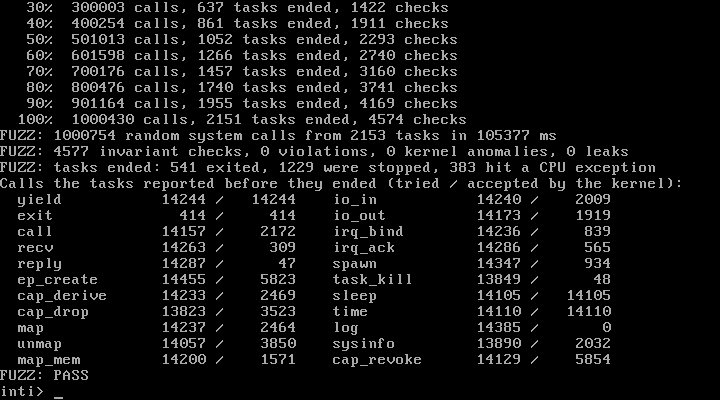
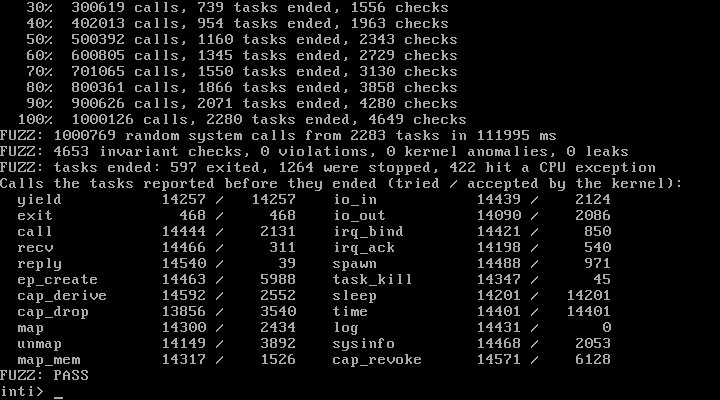
Refresh Inti landing page: v0.2.1 figures and screenshots

diff --git a/p/inti/index.html b/p/inti/index.html
@@ -627,12 +627,12 @@ html.dna.dna.dna { --fd: "Sometype Mono", var(--fd-fallback); --fdw: 700; --fd-f
   <section class="block alt wrap reveal" id="features">
     <div class="kicker">What's inside</div>
     <h2>What fits in a 2 MiB disk image.</h2>
-    <div class="bento"><article class="cell wide dark"><h3>Drivers are ordinary programs</h3><p>The console driver (screen, keyboard, serial port), the file server for the boot archive and the disk server run outside the kernel, each started with a handful of capabilities.</p></article><article class="cell"><h3>A supervisor restarts them</h3><p>A driver that crashes or stops answering is replaced, and programs that were waiting get their answer from the new one. In QEMU a crashed console driver answers again after 7.0 ms and a hung one after 695.4 ms (median of 5 runs).</p></article><article class="cell"><h3>No ambient authority</h3><p>Every system call starts from a capability the program was handed. A capability can be narrowed but never widened. There are 7 kinds: endpoints, I/O ports, interrupt lines, memory, tasks, the kernel log and kernel information.</p></article><article class="cell accent"><h3>A Rust kernel with no heap</h3><p>2,933 lines, and every table has a fixed size. Each of its 42 unsafe blocks carries a written justification.</p></article><article class="cell"><h3>A kernel that checks itself</h3><p>A checker inside the kernel recounts everything the kernel owns against 27 rules. Across 1,000,754 random system calls it ran 4,577 times and found 0 violations.</p></article><article class="cell"><h3>Quotas that are lent</h3><p>Memory, tasks and endpoints are lent by a parent to its children and returned when they end, so a program can exhaust its own share and nothing else.</p></article><article class="cell"><h3>Files that last</h3><p>The disk server keeps files on a disk so that after a power cut a change is whole or absent. In QEMU the volume came through 60 power cuts at random moments and was broken 0 times. In the browser demo files last until the page is reloaded.</p></article><article class="cell wide"><h3>The supervisor can die too</h3><p>Type crash init and the supervisor itself dies. The kernel then starts every program again.</p></article></div>
+    <div class="bento"><article class="cell wide dark"><h3>Drivers are ordinary programs</h3><p>The console driver (screen, keyboard, serial port), the file server for the boot archive and the disk server run outside the kernel, each started with a handful of capabilities.</p></article><article class="cell"><h3>A supervisor restarts them</h3><p>A driver that crashes or stops answering is replaced, and programs that were waiting get their answer from the new one. In QEMU a crashed console driver answers again after 50.7 ms (median of 5 runs) and a hung one after 708 ms.</p></article><article class="cell"><h3>No ambient authority</h3><p>Every system call starts from a capability the program was handed. A capability can be narrowed but never widened. There are 7 kinds: endpoints, I/O ports, interrupt lines, memory, tasks, the kernel log and kernel information.</p></article><article class="cell accent"><h3>A Rust kernel with no heap</h3><p>2,933 lines, and every table has a fixed size. Each of its 42 unsafe blocks carries a written justification.</p></article><article class="cell"><h3>A kernel that checks itself</h3><p>A checker inside the kernel recounts everything the kernel owns against 27 rules. Across 1,000,769 random system calls it ran 4,653 times and found 0 violations.</p></article><article class="cell"><h3>Quotas that are lent</h3><p>Memory, tasks and endpoints are lent by a parent to its children and returned when they end, so a program can exhaust its own share and nothing else.</p></article><article class="cell"><h3>Files that last</h3><p>The disk server keeps files on a disk so that after a power cut a change is whole or absent. In QEMU the volume came through 60 power cuts at random moments and was broken 0 times. In the browser demo files last until the page is reloaded.</p></article><article class="cell wide"><h3>The supervisor can die too</h3><p>Type crash init and the supervisor itself dies. The kernel then starts every program again.</p></article></div>
   </section>
   <section class="block wrap reveal" id="today">
     <div class="kicker">Working today</div>
     <h2>Measured on this build.</h2>
-    <ul class="checks"><li><i><svg viewBox="0 0 24 24" aria-hidden="true"><path d="M5 12.5l4.2 4.2L19 7" fill="none" stroke="currentColor" stroke-width="2.6" stroke-linecap="round" stroke-linejoin="round"/></svg></i><span>Boots from its own boot sector, with no GRUB and no multiboot</span></li><li><i><svg viewBox="0 0 24 24" aria-hidden="true"><path d="M5 12.5l4.2 4.2L19 7" fill="none" stroke="currentColor" stroke-width="2.6" stroke-linecap="round" stroke-linejoin="round"/></svg></i><span>Restarts a crashed or hung console driver, file server and disk server</span></li><li><i><svg viewBox="0 0 24 24" aria-hidden="true"><path d="M5 12.5l4.2 4.2L19 7" fill="none" stroke="currentColor" stroke-width="2.6" stroke-linecap="round" stroke-linejoin="round"/></svg></i><span>Restarts user space when the supervisor itself is crashed</span></li><li><i><svg viewBox="0 0 24 24" aria-hidden="true"><path d="M5 12.5l4.2 4.2L19 7" fill="none" stroke="currentColor" stroke-width="2.6" stroke-linecap="round" stroke-linejoin="round"/></svg></i><span>96 of 96 self-test checks pass, also after each injected fault</span></li><li><i><svg viewBox="0 0 24 24" aria-hidden="true"><path d="M5 12.5l4.2 4.2L19 7" fill="none" stroke="currentColor" stroke-width="2.6" stroke-linecap="round" stroke-linejoin="round"/></svg></i><span>51 of 51 hostile attempts denied in QEMU</span></li><li><i><svg viewBox="0 0 24 24" aria-hidden="true"><path d="M5 12.5l4.2 4.2L19 7" fill="none" stroke="currentColor" stroke-width="2.6" stroke-linecap="round" stroke-linejoin="round"/></svg></i><span>1,000,754 random system calls with 0 rule violations</span></li><li><i><svg viewBox="0 0 24 24" aria-hidden="true"><path d="M5 12.5l4.2 4.2L19 7" fill="none" stroke="currentColor" stroke-width="2.6" stroke-linecap="round" stroke-linejoin="round"/></svg></i><span>Files came through 60 random power cuts in QEMU with the volume broken 0 times</span></li><li><i><svg viewBox="0 0 24 24" aria-hidden="true"><path d="M5 12.5l4.2 4.2L19 7" fill="none" stroke="currentColor" stroke-width="2.6" stroke-linecap="round" stroke-linejoin="round"/></svg></i><span>The same disk image boots in QEMU and in the browser</span></li></ul>
+    <ul class="checks"><li><i><svg viewBox="0 0 24 24" aria-hidden="true"><path d="M5 12.5l4.2 4.2L19 7" fill="none" stroke="currentColor" stroke-width="2.6" stroke-linecap="round" stroke-linejoin="round"/></svg></i><span>Boots from its own boot sector, with no GRUB and no multiboot</span></li><li><i><svg viewBox="0 0 24 24" aria-hidden="true"><path d="M5 12.5l4.2 4.2L19 7" fill="none" stroke="currentColor" stroke-width="2.6" stroke-linecap="round" stroke-linejoin="round"/></svg></i><span>Restarts a crashed or hung console driver, file server and disk server</span></li><li><i><svg viewBox="0 0 24 24" aria-hidden="true"><path d="M5 12.5l4.2 4.2L19 7" fill="none" stroke="currentColor" stroke-width="2.6" stroke-linecap="round" stroke-linejoin="round"/></svg></i><span>Restarts user space when the supervisor itself is crashed</span></li><li><i><svg viewBox="0 0 24 24" aria-hidden="true"><path d="M5 12.5l4.2 4.2L19 7" fill="none" stroke="currentColor" stroke-width="2.6" stroke-linecap="round" stroke-linejoin="round"/></svg></i><span>96 of 96 self-test checks pass, also after each injected fault</span></li><li><i><svg viewBox="0 0 24 24" aria-hidden="true"><path d="M5 12.5l4.2 4.2L19 7" fill="none" stroke="currentColor" stroke-width="2.6" stroke-linecap="round" stroke-linejoin="round"/></svg></i><span>51 of 51 hostile attempts denied in QEMU</span></li><li><i><svg viewBox="0 0 24 24" aria-hidden="true"><path d="M5 12.5l4.2 4.2L19 7" fill="none" stroke="currentColor" stroke-width="2.6" stroke-linecap="round" stroke-linejoin="round"/></svg></i><span>1,000,769 random system calls with 0 rule violations</span></li><li><i><svg viewBox="0 0 24 24" aria-hidden="true"><path d="M5 12.5l4.2 4.2L19 7" fill="none" stroke="currentColor" stroke-width="2.6" stroke-linecap="round" stroke-linejoin="round"/></svg></i><span>Files came through 60 random power cuts in QEMU with the volume broken 0 times</span></li><li><i><svg viewBox="0 0 24 24" aria-hidden="true"><path d="M5 12.5l4.2 4.2L19 7" fill="none" stroke="currentColor" stroke-width="2.6" stroke-linecap="round" stroke-linejoin="round"/></svg></i><span>The same disk image boots in QEMU and in the browser</span></li></ul>
   </section>
   <section class="block alt wrap reveal" id="gallery">
     <div class="kicker">Screens</div>
@@ -672,9 +672,9 @@ python build.py gates    # every check, from a clean build"><svg viewBox="0 0 24
     <div class="kicker">Under the hood</div>
     <h2>How it's built.</h2>
     <div class="hood"><div class="hood-card">
-        <h3>Built with</h3><div class="sg"><span>Language</span><div class="chips"><b class=chip>Rust</b><b class=chip>Python</b><b class=chip>JavaScript</b></div></div><p class="repo-line">229 files in the repo · 50 commits since Nov 2026 · last updated 16 Nov 2026.</p>
+        <h3>Built with</h3><div class="sg"><span>Language</span><div class="chips"><b class=chip>Rust</b><b class=chip>Python</b><b class=chip>JavaScript</b></div></div><p class="repo-line">243 files in the repo · 51 commits since Nov 2026 · last updated 16 Nov 2026.</p>
         <a class="go" href="https://github.com/juw12/inti">Browse the code <svg viewBox="0 0 24 24" aria-hidden="true"><path d="M5 12h13M13 6l6 6-6 6" fill="none" stroke="currentColor" stroke-width="2.2" stroke-linecap="round" stroke-linejoin="round"/></svg></a>
-      </div><div class="hood-card"><h3>Recently shipped</h3><ol class="log"><li><time datetime="2026-11-16">16 Nov 2026</time><p>Product round 1: files that survive a restart, a machine matrix, three new pages</p></li><li><time datetime="2026-11-13">13 Nov 2026</time><p>Main moved to round 7 on the owner&#x27;s instruction (log entry)</p></li><li><time datetime="2026-11-13">13 Nov 2026</time><p>Round 7: council result (mean 8.1425, bar 8.4125, not kept), stop on plateau</p></li><li><time datetime="2026-11-13">13 Nov 2026</time><p>Round 7: timing failures explained, unseen holes tested in QEMU, launch race corrected</p></li><li><time datetime="2026-11-13">13 Nov 2026</time><p>Log: round 7 plan and keep rule, written before any work</p></li></ol><a class="go" href="https://github.com/juw12/inti/commits/main">Full history on GitHub <svg viewBox="0 0 24 24" aria-hidden="true"><path d="M5 12h13M13 6l6 6-6 6" fill="none" stroke="currentColor" stroke-width="2.2" stroke-linecap="round" stroke-linejoin="round"/></svg></a></div></div>
+      </div><div class="hood-card"><h3>Recently shipped</h3><ol class="log"><li><time datetime="2026-11-16">16 Nov 2026</time><p>Product round 2 (0.2.1): the share check counts lost ticks; a time limit is never a catch</p></li><li><time datetime="2026-11-16">16 Nov 2026</time><p>Product round 1: files that survive a restart, a machine matrix, three new pages</p></li><li><time datetime="2026-11-13">13 Nov 2026</time><p>Main moved to round 7 on the owner&#x27;s instruction (log entry)</p></li><li><time datetime="2026-11-13">13 Nov 2026</time><p>Round 7: council result (mean 8.1425, bar 8.4125, not kept), stop on plateau</p></li><li><time datetime="2026-11-13">13 Nov 2026</time><p>Round 7: timing failures explained, unseen holes tested in QEMU, launch race corrected</p></li></ol><a class="go" href="https://github.com/juw12/inti/commits/main">Full history on GitHub <svg viewBox="0 0 24 24" aria-hidden="true"><path d="M5 12h13M13 6l6 6-6 6" fill="none" stroke="currentColor" stroke-width="2.2" stroke-linecap="round" stroke-linejoin="round"/></svg></a></div></div>
   </section>
   <section class="block alt wrap reveal" id="faq">
     <div class="kicker">Questions</div>
